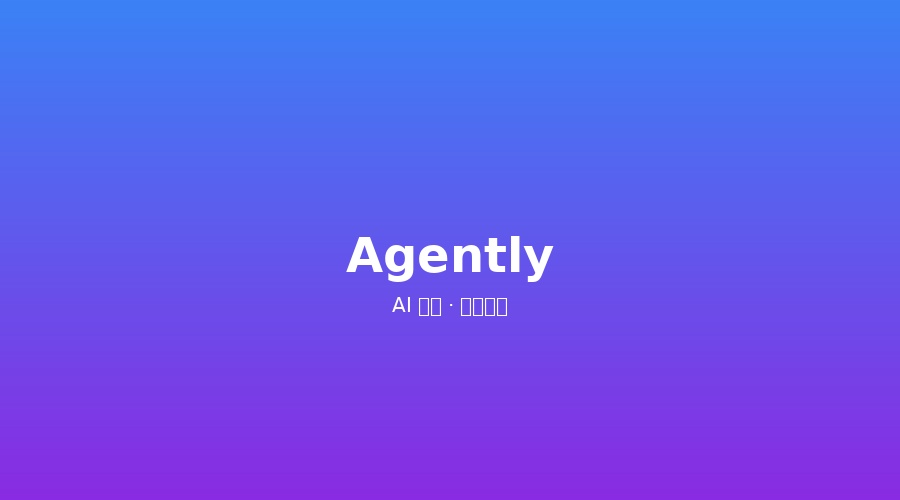
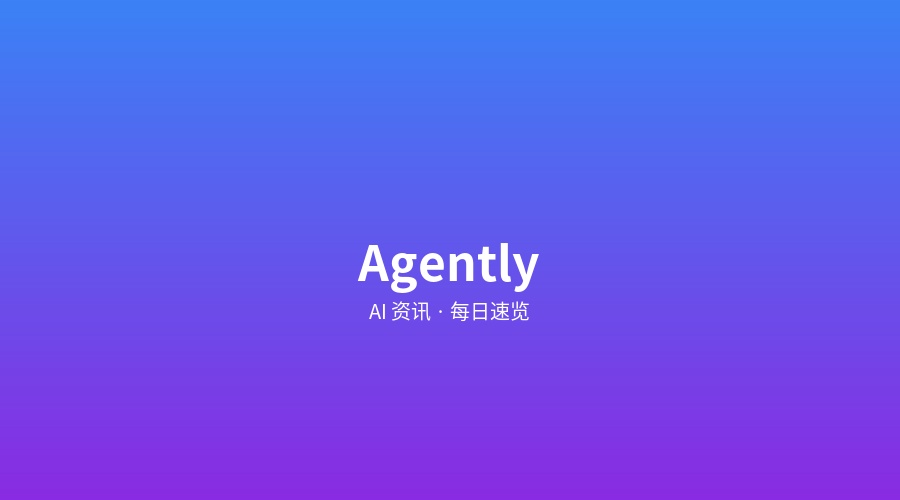
fix(cover): 使用 Noto Sans CJK 中文字体修复乱码
- 安装 google-noto-sans-cjk-ttc-fonts 中文字体包
- 修改 generate_cover.py 使用 NotoSansCJK 字体
- 修复副标题中文乱码问题

Changed region(s): [[0.3733, 0.45, 0.6222, 0.66]]

diff --git a/scripts/generate_cover.py b/scripts/generate_cover.py
@@ -15,9 +15,9 @@ for y in range(500):
     b = int(246 + (226 - 246) * y / 500)
     draw.line([(0, y), (900, y)], fill=(r, g, b))
 
-# 字体
-font = ImageFont.truetype('/usr/share/fonts/truetype/dejavu/DejaVuSans-Bold.ttf', 48)
-font2 = ImageFont.truetype('/usr/share/fonts/truetype/dejavu/DejaVuSans.ttf', 20)
+# 字体 - 使用支持中文的 Noto Sans CJK
+font = ImageFont.truetype('/usr/share/fonts/google-noto-cjk/NotoSansCJK-Bold.ttc', 48)
+font2 = ImageFont.truetype('/usr/share/fonts/google-noto-cjk/NotoSansCJK-Regular.ttc', 20)
 
 # 主标题
 bbox = draw.textbbox((0, 0), 'Agently', font=font)